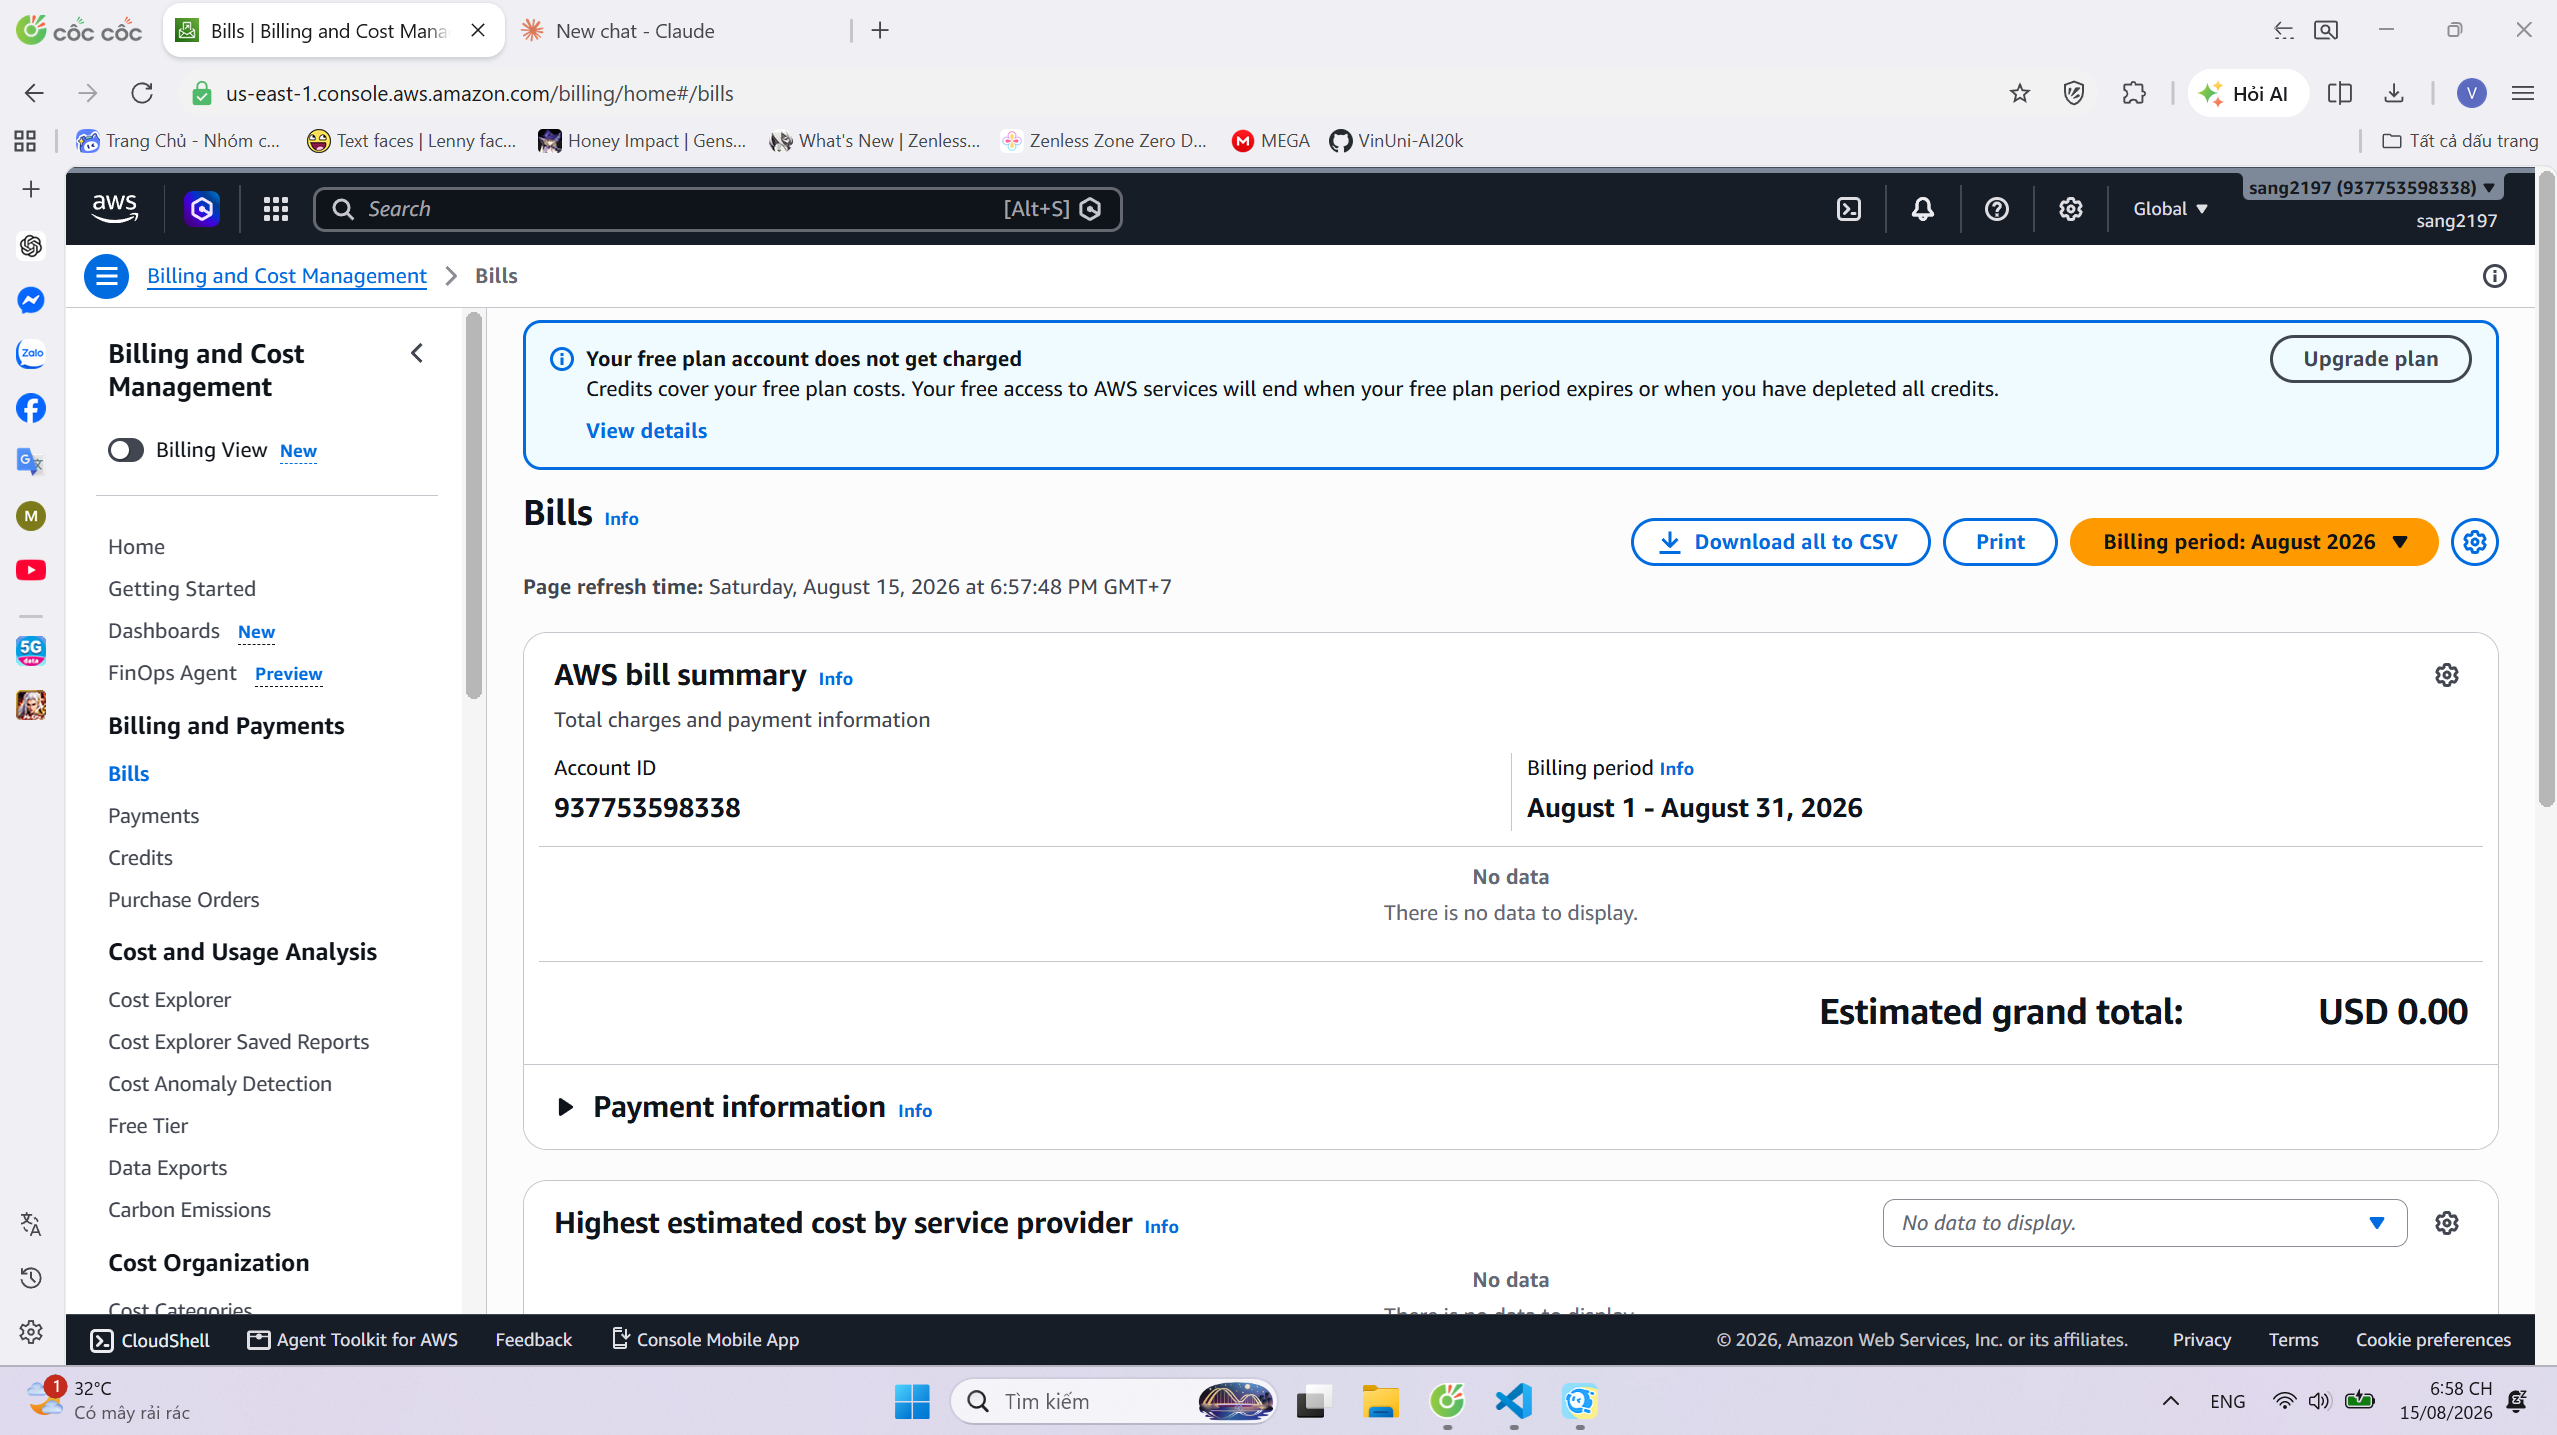
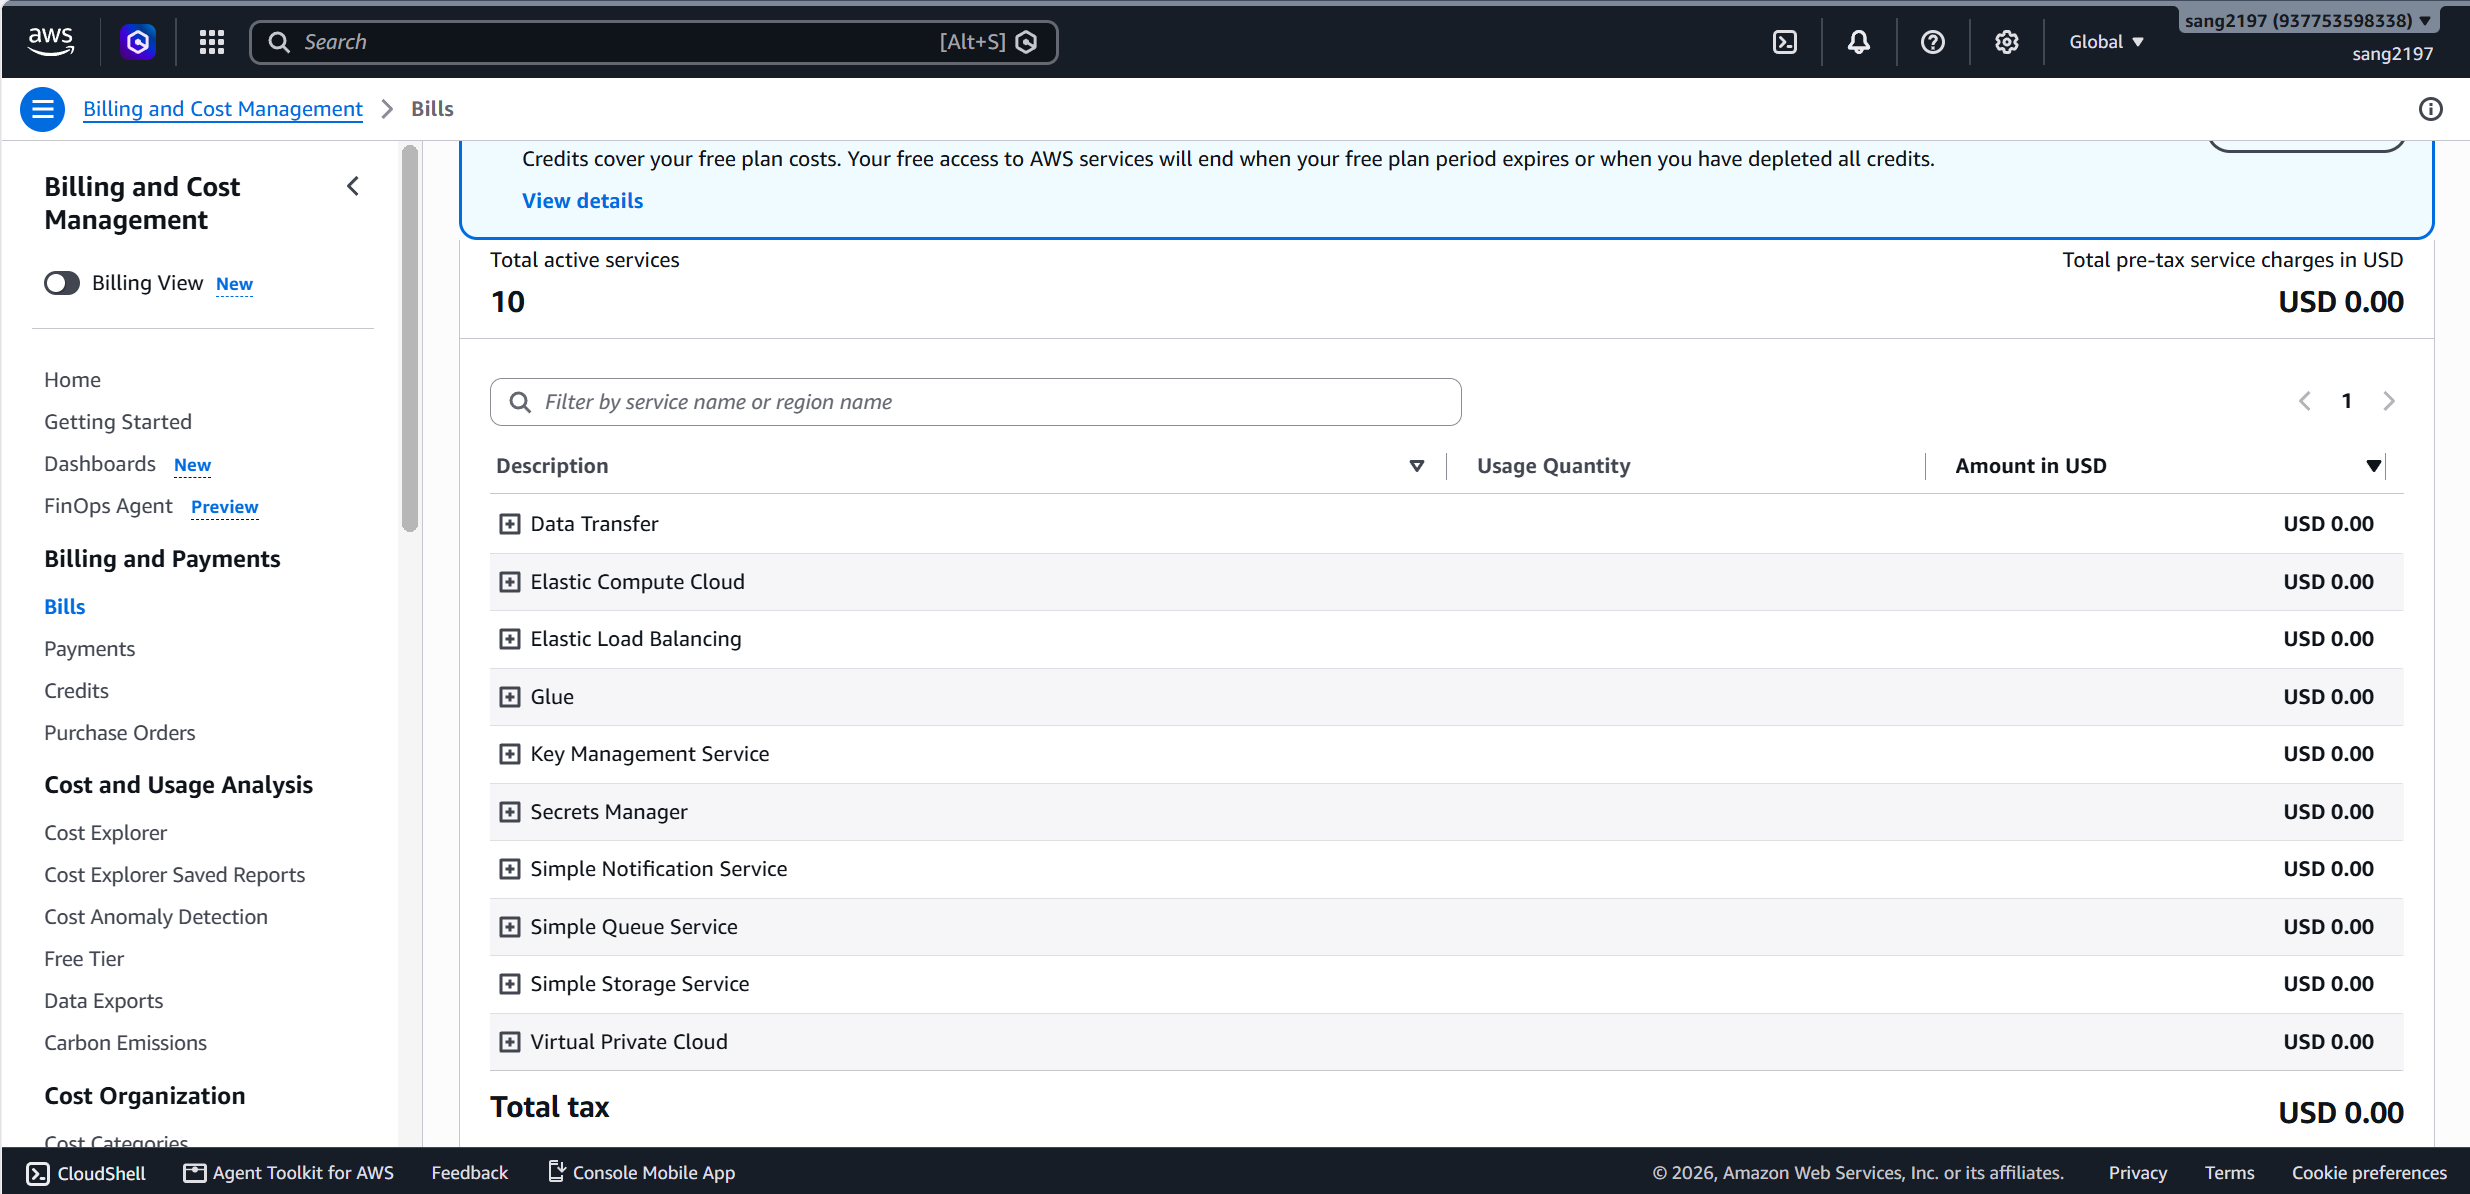
docs: update billing screenshot with itemized per-service cost breakdown
AWS Free Plan billing data finally populated after ~24h delay, now
showing itemized costs by service (EC2, VPC/NAT Gateway, ELB) as
required by the lab criteria, all $0.00 due to free plan credits.

diff --git a/result/report.md b/result/report.md
@@ -19,4 +19,4 @@
 
 **Chi phí cloud:** Theo bảng ước tính của README, **NAT Gateway** (~$0.045/giờ + phí data processing) là thành phần đóng góp chi phí lớn nhất và liên tục, vì nó tính phí theo giờ 24/7 bất kể có dùng hay không — trong khi EC2 (đã hạ xuống `t3.micro` để hợp lệ Free Tier) gần như $0. ALB cũng thu phí cố định theo giờ tương tự dù ít traffic. Đây là lý do README nhấn mạnh phải `terraform destroy` ngay sau khi hoàn thành để tránh chi phí cộng dồn theo thời gian.
 
-**Ghi chú về ảnh Billing (`billing.png`):** tài khoản AWS dùng cho bài lab thuộc loại **"AWS Free Plan"** (loại tài khoản mới dành cho người mới bắt đầu) — banner trên trang Bills nêu rõ *"Your free plan account does not get charged. Credits cover your free plan costs."* Do toàn bộ chi phí được credit bao trọn tự động, tài khoản loại này **không hiển thị chi tiết billing dạng số tiền theo từng dịch vụ** ở cả 3 nơi đã kiểm tra (Bills, Cost Explorer, Free Tier) — kể cả sau hơn 24 giờ chờ đợi. Đây là giới hạn thiết kế của nền tảng đối với loại tài khoản này, không phải do thao tác sai hoặc chưa đủ thời gian. `billing.png` được đính kèm làm bằng chứng cho hiện trạng này; kết hợp với `monitoring.png` (biểu đồ CloudWatch CPUUtilization/Network của Compute Node) làm bằng chứng thay thế cho việc các dịch vụ tính phí (EC2, NAT Gateway) đã thực sự được provision và hoạt động trong quá trình benchmark.
+**Ghi chú về ảnh Billing (`billing.png`):** tài khoản AWS dùng cho bài lab thuộc loại **"AWS Free Plan"** — banner trên trang Bills nêu rõ *"Your free plan account does not get charged. Credits cover your free plan costs."* Do toàn bộ chi phí được credit bao trọn tự động, số tiền hiển thị luôn là `USD 0.00` cho mọi dịch vụ. Ban đầu trang Bills không hiện dữ liệu gì (do độ trễ xử lý của AWS), nhưng sau hơn 24 giờ, hệ thống đã trả ra bảng chi phí itemize theo từng dịch vụ (10 active services), trong đó thể hiện rõ đúng các dịch vụ hạ tầng lab đã tạo: **Elastic Compute Cloud** (EC2 — Bastion + Compute Node), **Virtual Private Cloud** (nhóm billing bao gồm NAT Gateway), và **Elastic Load Balancing** (ALB) — khớp với bảng ước tính chi phí trong README, chỉ khác là số tiền thực tế bằng $0 nhờ credit Free Plan bù toàn bộ.
